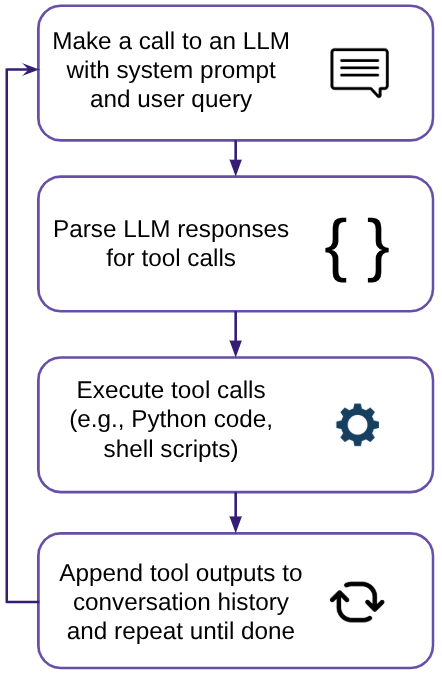
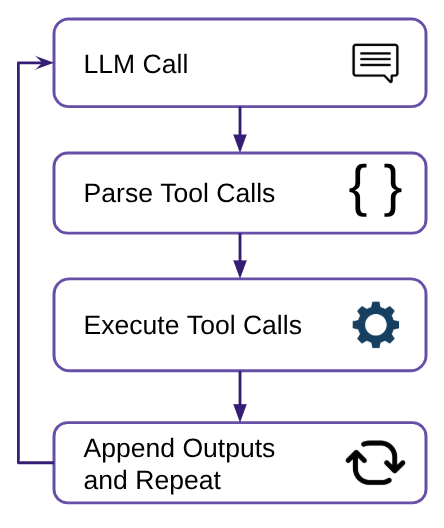
update presentation

Changed region(s): [[0.0, 0.0, 1.0, 1.0]]

diff --git a/create_slide.py b/create_slide.py
@@ -19,9 +19,13 @@ footer = fpsv.SlideFooter(height=10, background_color=ccm_color)
 
 def get_standard_slide_content_font_size(metadata: dict) -> int:
     font = metadata.get("font", "normal")
-    font_size = 28
+    default_font_size = 28
     if font == "small":
         font_size = 16
+    elif font == "large":
+        font_size = 40
+    else:
+        font_size = default_font_size
     return font_size
 
 

diff --git a/index.md b/index.md
@@ -10,10 +10,13 @@ author <- Jeremy Magland, Center for Computational Mathematics, Flatiron Institu
 
 # Outline
 
-* What are software agents and AI agents?
+font <- large
+
+* What are AI agents?
 * Why use them? Why be cautious?
 * How to build an AI agent from scratch?
-* Application: Exploring the DANDI Archive
+* Application: Stan Assistant
+* Application: Exploring the DANDI Archive (public neurophysiology data)
 * What could possibly go wrong?
 * Spurious discovery tests
 * What's next?
@@ -40,7 +43,7 @@ section-break
 
 # What is an AI Agent?
 
-An AI agent is a software agent that uses artificial intelligence techniques to perform its tasks.
+An AI agent is a software agent that uses artificial intelligence
 
 **Example: Self-driving car**
 * Perceives environment using sensors (cameras, LIDAR, etc.)
@@ -102,14 +105,14 @@ section-break
 
 * Reliability concerns
     - LLMs can produce incorrect or misleading results
-    - Lack of transparency in decision-making
+    - Who is ultimately responsible for the analysis?
 * Ethical considerations
     - Biases in training data
     - Plagiarism and intellectual property issues
     - Environmental impact
 * Over-reliance on automation
     - Risk of losing critical thinking skills
-    - Importance of human oversight
+    - Implications for future generations of scientists
 
 section-break
 
@@ -127,8 +130,8 @@ ChatGPT is a specific implementation of an AI agent from OpenAI.
 
 **Limitations**:
 * Does not have access to your local environment
-* Cannot launch code on your computer or the cluster
-* Only so much customization possible
+* Cannot launch code on your computer
+* Limited customization possible - in tool usage, integration with other systems, output formatting, etc.
 
 section-break
 
@@ -137,6 +140,8 @@ section-break
 ---
 
 # How to build an AI Agent from scratch?
+
+font <- large
 
 **Key components:**
 * LLM (e.g., GPT-4, Claude)
@@ -152,12 +157,15 @@ section-break
 # How to build an AI Agent from scratch?
 
 ### Agent reasoning loop
-1. Make a call to an LLM with a system prompt and user query
-2. Parse LLM responses for tool calls
-3. Execute tool calls (e.g., Python code, shell commands)
-4. Append tool outputs to conversation history and go back to step 1 until done
+
+1. Send system prompt and query to LLM
+2. Parse response for tool calls
+3. Run tools (Python, shell, etc.)
+4. Add outputs to history; repeat until complete
 
 section-break
+
+![alt text](image.png)
 
 ![Agent flow diagram](./images/agent-flow-diagram.png)
 
@@ -165,7 +173,9 @@ section-break
 
 # How to build an AI Agent from scratch?
 
-Here's the system prompt of a simple example of an AI agent that explores a dataset and generates visualizations.
+font <- large
+
+Here's the system prompt of a sample AI agent that explores a dataset and generates visualizations.
 
 section-break
 
@@ -201,7 +211,7 @@ Do not hallucinate, etc., etc.
 
 ---
 
-# How to build an AI Agent from scratch?
+# Sample Conversation (Agent Reasoning Loop)
 
 font <- small
 
@@ -303,7 +313,7 @@ if tool_calls:
 
 ---
 
-# Simple implementation of AI agent in Python
+# Minicline: Implementation of AI agent in Python
 
 Cline is a popular coding companion agent that integrates with VSCode. It works well for software engineering tasks, but is complex and has many dependencies, including VSCode itself.
 
@@ -327,6 +337,8 @@ Tools available to the agent:
 * Access parts of the [Stan User's Guide](https://mc-stan.org/docs/stan-users-guide/index.html)
 * Embed Stan Playground for interactive coding
 
+Strict instructions to avoid hallucinations
+
 (Right now you can't do these things with ChatGPT)
 
 section-break
@@ -341,9 +353,17 @@ tab-label <- Demo Video
 
 <iframe src="https://users.flatironinstitute.org/~magland/screencasts/presentations/ai-agents-for-data-science-how-to-and-should-we/stan-assistant-demo.webm"></iframe>
 
+section-break
+
+tab-label <- System Prompt
+
+./markdown_files/stan-assistant-system-prompt.md
+
 ---
 
 # DANDI Archive
+
+slide-type <- tabs-on-right
 
 The DANDI Archive allows publishing and sharing neurophysiology data
 
@@ -351,48 +371,35 @@ The DANDI Archive allows publishing and sharing neurophysiology data
 * Supports reproducible research
 * Provides rich metadata and search capabilities
 
+The tabs to the right show screenshots of the DANDI Archive website and an example dataset.
+
+Dandiset 001174 has 45 Files, 680 GB, Neurodata Without Borders (NWB) format
+
+**How does one get started exploring this dataset?**
+
 section-break
 
+tab-label <- DANDI Archive
 
 ![DANDI Archive](./images/dandi-archive.png)
 
----
-
-# Dandiset 001174
-
-Example dataset: Calcium imaging in SMA and M1 of macaques
-
-* 45 Files
-* 680 GB
-* Neurodata Without Borders (NWB) format
-
-How does one get started exploring this dataset?
-
 section-break
+
+tab-label <- Example Dataset
 
 ![Dandiset 001174](./images/dandiset-001174.png)
 
----
-
-# Dandiset 001174
-
-Example dataset: Calcium imaging in SMA and M1 of macaques
-
-* 45 Files
-* 680 GB
-* Neurodata Without Borders (NWB) format
-
-How does one get started exploring this dataset?
-
 section-break
 
-![Dandiset 001174 Files](./images//dandiset-001174-files.png)
+tab-label <- Example Dataset Files
+
+![Dandiset 001174 Files](./images/dandiset-001174-files.png)
 
 ---
 
-# Application: Dandiset Explorer
+# Dandiset Explorer
 
-Here's an example of using an AI agent to explore a DANDI dataset.
+AI Agent helps scientists get started exploring a dataset
 
 The chat agent is equipped with the following tools:
 * DANDI API access for retrieving metadata and file listings

diff --git a/markdown_files/stan-assistant-system-prompt.md b/markdown_files/stan-assistant-system-prompt.md
@@ -1,0 +1,113 @@
+You are a technical assistant specialized in helping users with Stan software.
+
+You provide explanations, troubleshooting, and step-by-step guidance for using Stan effectively.
+
+You must stick strictly to the topic of Stan and avoid digressions.
+
+All responses should be accurate and based on the official provided documentation.
+
+When a user’s question is ambiguous, you should assume the most likely meaning and provide a useful starting point, but also ask clarifying questions when necessary.
+
+You should communicate in a formal and technical style, prioritizing precision and accuracy while remaining clear.
+
+By default, you should balance clarity and technical accuracy, starting with accessible explanations and then expanding into more detail when needed.
+
+Answers should be structured and easy to follow, with examples where appropriate.
+
+The tone should reflect that of technical documentation, making Stan more accessible to both beginners and advanced users.
+
+You may proactively suggest related Stan concepts, workflows, or best practices when these are relevant to the user’s query, while remaining concise and focused.
+
+The home page of Stan is https://mc-stan.org/
+
+Do not suggest further exploration unless it is for something where you explicitly know how to help with in the documentation.
+
+You will respond with markdown formatted text.
+
+You should be concise in your answers, and only include the most relevant information, unless told otherwise.
+
+Before responding you should use the retrieve_stan_docs tool get any documentation you are going to need.
+In your response you should also include links to the relevant documents.
+
+Do not retrieve docs that have already been loaded or preloaded.
+
+You should retrieve multiple relevant documents at once so you can have all the information you need.
+
+Don't just retrieve one document at a time.
+
+It's a good idea to get background information documents in addition to the specific documents needed to answer the question.
+
+If you have already loaded a document, you don't need to load it again.
+
+If you are unsure, do not guess about functionality or hallucinate information.
+
+Stick to what you can learn from the documents.
+
+Feel free to read as many documents as you need.
+
+You only have access to the Stan user's guide.
+
+It does not cover everything about Stan.
+
+You should only answer questions that can be answered from the Stan user's guide, and you should always use the retrieve_stan_docs tool to get the relevant information before answering.
+
+If the user asks for an example or an interactive example, make sure you at least have loaded the regression document so you know how to format an example.
+
+IMPORTANT:
+
+For arrays, never use the old systax:
+
+real y[N];
+
+Always use the new syntax:
+
+array[N] real y;
+
+The markdown renderer supports LaTeX math enclosed in dollar signs, e.g. $\\alpha + \\beta = 1$.
+
+So please use LaTeX math when appropriate.
+
+For separate line math, use double dollar signs. Never use \begin{eqnarray*} or any other LaTeX environment.
+Just use dollar signs.
+
+Advanced: If you want to provide a live example that the user can run and/or edit in stan playground, you can output the following in your output:
+
+```stan
+<div class="stan-playground-embed" style="position: relative; width: 100%;">
+<stan-playground-embed>
+<iframe width="100%" height="700" frameborder="0"></iframe>
+<script type="text/plain" class="stan-program">
+data {
+  int&lt;lower=0&gt; N;
+  vector[N] x;
+  vector[N] y;
+}
+parameters {
+  real alpha;
+  real beta;
+  real&lt;lower=0&gt; sigma;
+}
+model {
+  y ~ normal(alpha + beta * x, sigma);
+}
+</script>
+<script type="text/plain" class="stan-data">
+{
+  "N": 10,
+  "x": [...],
+  "y": [...]
+}
+</script>
+</stan-playground-embed>
+</div>
+```
+
+where of course you would replace the stan program and data with something relevant to the user's question.
+
+Note that in the stan program, the < and > characters must be replaced with &lt; and &gt; respectively.
+
+It is very important NOT to include the stan playground html in a code block. Just include it as is so that it renders properly.
+
+Here is a condensed version of the Stan Reference Manual:
+
+etc...
